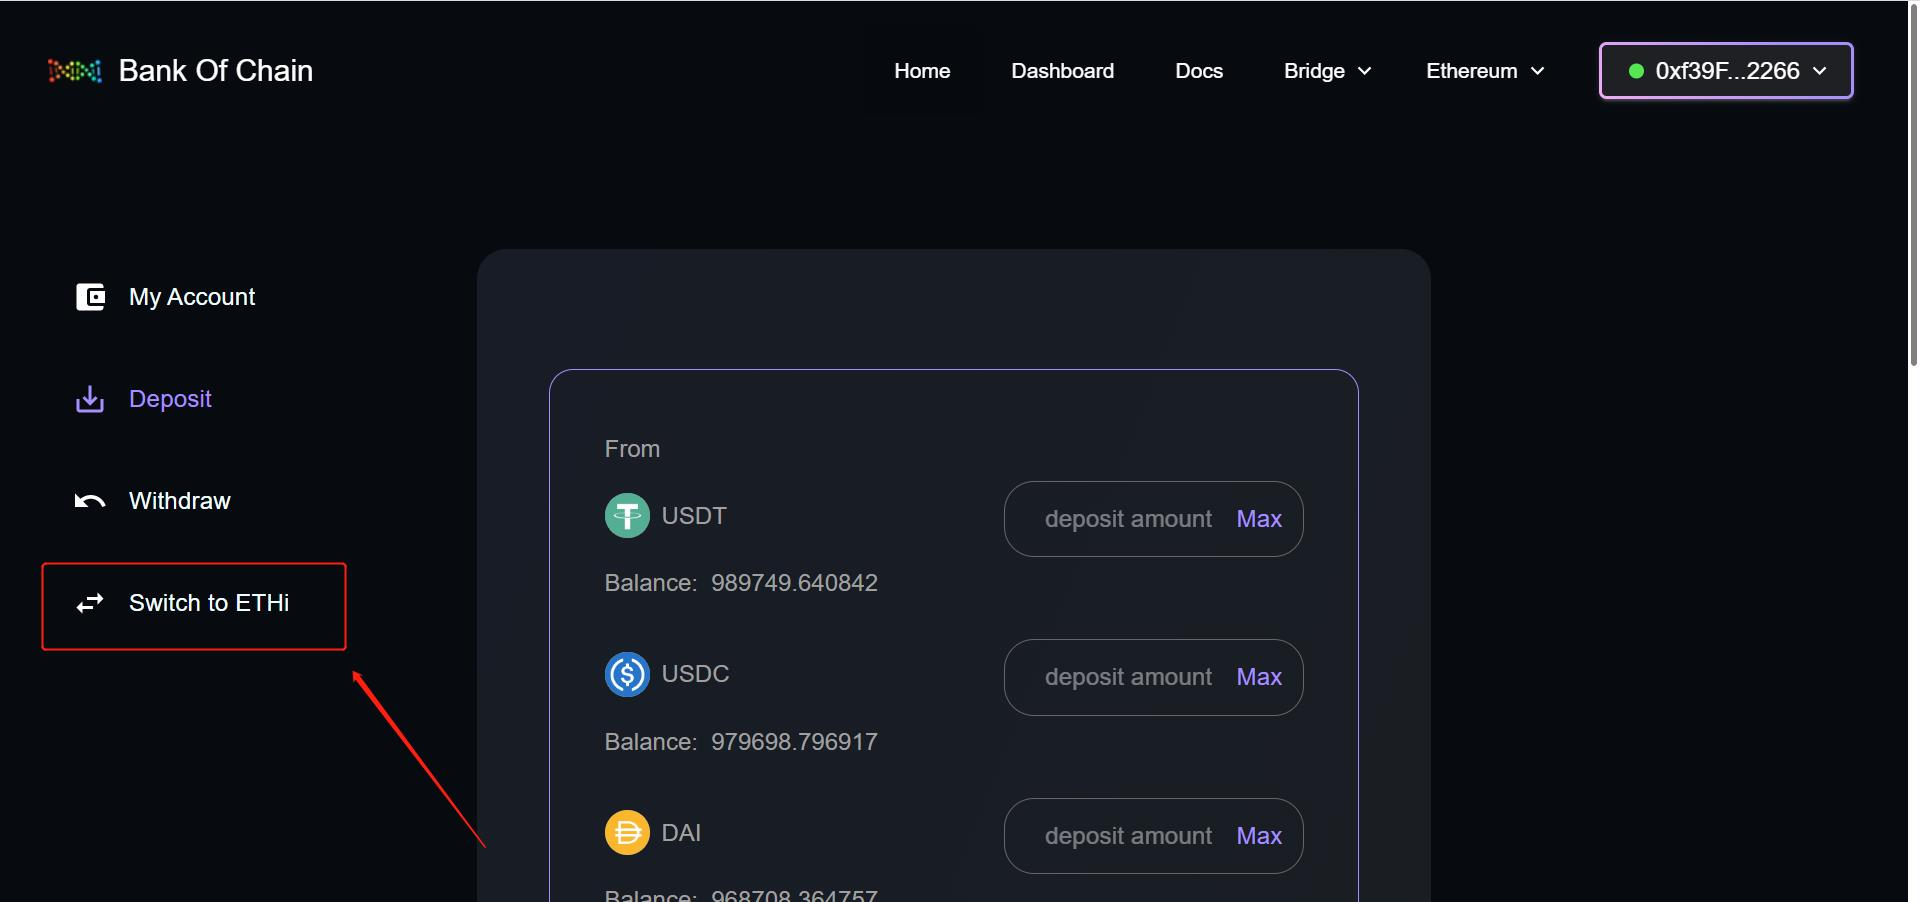
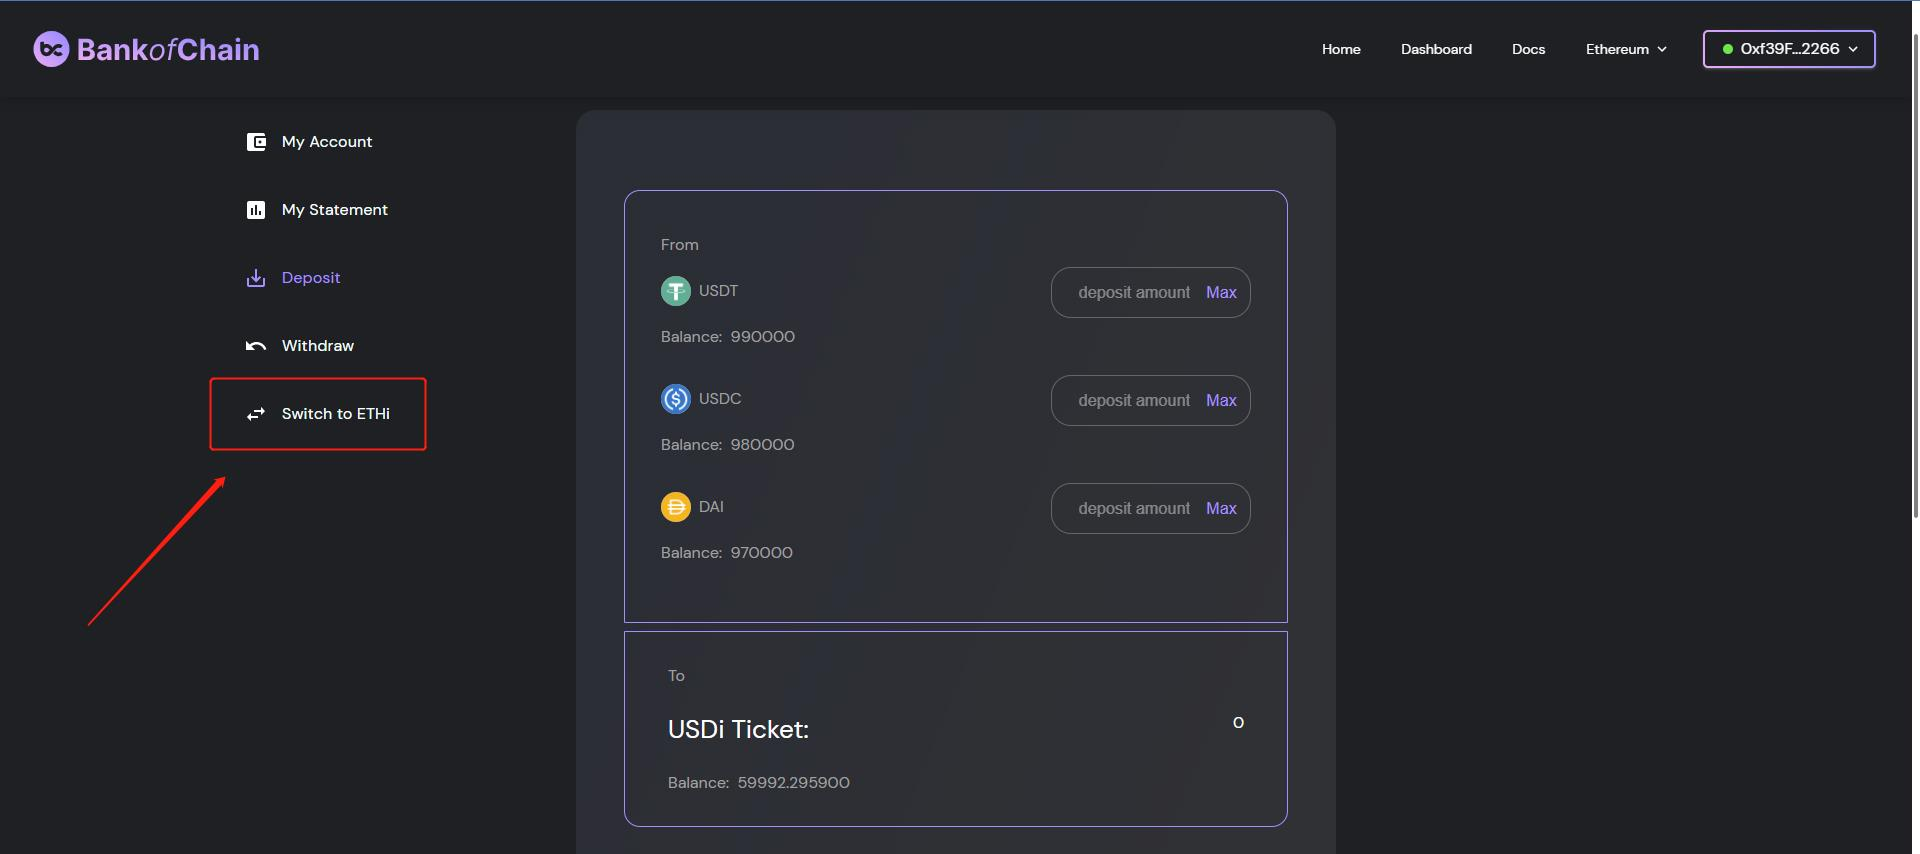
GitBook: [#42] user handbook zh update

diff --git a/boc/user-handbook.md b/boc/user-handbook.md
@@ -1,32 +1,26 @@
 # 如何使用BoC
 
-进入 BoC [首页](https://bankofchain.io/#/)，点击 `LAUNCH APP` 按钮进入[用户投资页](https://v1.bankofchain.io/#/invest)。
+进入 BoC [首页](https://bankofchain.io/#/)，点击 `LAUNCH APP` 按钮进入[用户投资页](https://v1.bankofchain.io/#/invest)。您将跳转到APP的主页。
 
-<figure><img src="../.gitbook/assets/user_handbook_LaunchApp1.png" alt=""><figcaption></figcaption></figure>
+<figure><img src="../.gitbook/assets/user_handbook_LaunchApp1 (1).png" alt=""><figcaption><p>图1：Launch App</p></figcaption></figure>
 
 ## 连接钱包
 
 您可以通过 [MetaMask](https://metamask.io/#/) 和 [WalletConnect](https://walletconnect.com/#/) 与BoC进行交互, 点击 `CONNECT WALLET`按钮连接您的[钱包](../more/appendix.md#wallet)。
 
-<figure><img src="../.gitbook/assets/user_handbook_ConnectWallet.png" alt=""><figcaption></figcaption></figure>
+<figure><img src="../.gitbook/assets/user_handbook_ConnectWallet (1).png" alt=""><figcaption><p>图2：连接钱包</p></figcaption></figure>
 
 成功连接钱包后，`CONNECT WALLET` 按钮上将出现您的相关钱包地址。
 
-<figure><img src="../.gitbook/assets/user_handbook_wallet_connected.png" alt=""><figcaption></figcaption></figure>
+<figure><img src="../.gitbook/assets/user_handbook_wallet_connected.png" alt=""><figcaption><p>图3：钱包连接成功后，将显示钱包地址。</p></figcaption></figure>
 
 ## 参数设置
 
-### 跨链桥
-
-BoC提供 [Polygon](https://wallet.polygon.technology/#/) 和 [Binance](https://www.binance.com/#/) 两种[跨链桥](../more/appendix.md#bridge)，方便您实现加密资产跨链。点击页面左上方的 `Bridge`即可选择跨链桥。
-
-<figure><img src="../.gitbook/assets/user_handbook_bridge.png" alt=""><figcaption></figcaption></figure>
-
 ### 切换链
 
-BoC 提供 Ethereum、BNB Chain 和 Polygon 三条链，进入页面左上方的 `NETWORKS`中即可切换。
+BoC 目前只部署了以太链，Polygon链的部署正在开发中。开发完毕后，BoC将提供 Ethereum、 和 Polygon 两条链，进入页面左上方的 `NETWORKS`中即可切换。
 
-<figure><img src="../.gitbook/assets/user_handbook_network.png" alt=""><figcaption></figcaption></figure>
+<figure><img src="../.gitbook/assets/user_handbook_network.png" alt=""><figcaption><p>图4：切换链</p></figcaption></figure>
 
 ## 存币 & 取币
 
@@ -34,33 +28,31 @@ BoC 提供 Ethereum、BNB Chain 和 Polygon 三条链，进入页面左上方的
 
 目前BoC支持用户将手中的三大稳定币（USDT、USDC、DAI）以任意组合、任意数量的形式存入。成功连接钱包并且设置好参数之后，选择期望存入的池，下图以 USDi Vault 为例，在相应的币下输入您期望的存币金额，或选择 `Max`，即存入您钱包中的所有此种代币，点击`DEPOSIT`，完成存币。
 
-<figure><img src="../.gitbook/assets/user_handbook_deposit2 (1).png" alt=""><figcaption></figcaption></figure>
+<figure><img src="../.gitbook/assets/user_handbook_deposit (1).png" alt=""><figcaption><p>图5：BoC存币界面</p></figcaption></figure>
 
-接下来将以存入10000 USDT，20000 USDC 以及 30000 DAI 为例，存入步骤将由以下四张图表示：
+接下来将以存入100 USDT，100 USDC 以及 100 DAI 为例，存入步骤将由以下四张图表示：
 
-**图一：**在相应的币下输入相对应的存币金额。
+<figure><img src="../.gitbook/assets/user_handbook_deposit_exp (1).png" alt=""><figcaption><p>图6：在相应的币下输入相对应的存币金额。</p></figcaption></figure>
 
-<figure><img src="../.gitbook/assets/user_handbook_deposit_exp.png" alt=""><figcaption><p>图一</p></figcaption></figure>
+点击 `DEPOSIT` 按钮后，即将进入下一个步骤，获取 USDi 券并再次确认存入金额。
 
-**图二：**点击 `DEPOSIT` 按钮后，即将进入下一个步骤，获取 USDi 券并再次确认存入金额。
+<figure><img src="../.gitbook/assets/user_handbook_est_USDi_ticket (1).png" alt=""><figcaption><p>图7：确认存币金额窗口</p></figcaption></figure>
 
-<figure><img src="../.gitbook/assets/user_handbook_est_USDi_ticket.png" alt=""><figcaption><p>图二</p></figcaption></figure>
+点击 `CONTINUE` 继续后，页面将跳转到 METAMASK 窗口，该窗口将显示批准金额以及合同地址等详情以供确认。
 
-**图三：**点击 `CONTINUE` 继续后，页面将跳转到 METAMASK 窗口，该窗口将显示批准金额以及合同地址等详情以供确认。
+<figure><img src="../.gitbook/assets/user_handbook_deposit_confirmation.png" alt=""><figcaption><p>图8：METAMASK窗口显示转账以及燃料费以供确认。</p></figcaption></figure>
 
-<figure><img src="../.gitbook/assets/user_handbook_deposit_confirmation.png" alt=""><figcaption><p>图三</p></figcaption></figure>
+确认之后，页面将重新跳转到存币主页。成功存币之后，该页将显示各币相对应的余额。BoC 协议将根据资金分配规则把资金投入到第三方协议。BoC 将资金优先分配到高收益的资金池，并定期进行收益评估以对资金进行优化配置。您所兑换的 USDi 券总数将会被显示在屏幕上直到资金分配完成。扣除资金首次分配费用后，BoC 将 USDi 券兑换成 USDi 并将其发行。您的账户上才会出现当前所持有的 USDi 余额。
 
-**图四：**确认之后，页面将重新跳转到存币主页。成功存币之后，该页将显示各币相对应的余额。BoC 协议将根据资金分配规则把资金投入到第三方协议。BoC 将资金优先分配到高收益的资金池，并定期进行收益评估以对资金进行优化配置。您所兑换的 USDi 券总数将会被显示在屏幕上直到资金分配完成。扣除资金首次分配费用后，BoC 将 USDi 券兑换成 USDi 并将其发行。您的账户上才会出现当前所持有的 USDi 余额。
-
-<figure><img src="../.gitbook/assets/user_handbook_deposit_completed.png" alt=""><figcaption><p>图四</p></figcaption></figure>
+<figure><img src="../.gitbook/assets/user_handbook_deposit_completed (1).png" alt=""><figcaption><p>图9：存币成功后（资金调配中）所显示的USDi Ticket余额。</p></figcaption></figure>
 
 用户也可以点击 `Switch to ETHi` 按钮跳转到 ETHi Vault 页面中存入 ETH。
 
-<figure><img src="../.gitbook/assets/user_handbook_switchtoETHi.png" alt=""><figcaption></figcaption></figure>
+<figure><img src="../.gitbook/assets/user_handbook_switchtoETHi.png" alt=""><figcaption><p>图10：Switch to ETHi 跳转界面</p></figcaption></figure>
 
 下图为 ETHi 存币页面的截图：
 
-<figure><img src="../.gitbook/assets/user_handbook_ETHi.png" alt=""><figcaption></figcaption></figure>
+<figure><img src="../.gitbook/assets/user_handbook_ETHi.png" alt=""><figcaption><p>图11：ETHi存币界面</p></figcaption></figure>
 
 在 ETHi Vault 中的 `Deposit` 页面，您只能输入 ETH 的存币金额并点击`DEPOSIT`。ETHi Vault 和 USDi Vault 最大的区别在于，前者将抽取一部分的燃料费，如上图中的 Estimated Gas Fee。
 
@@ -68,56 +60,65 @@ BoC 提供 Ethereum、BNB Chain 和 Polygon 三条链，进入页面左上方的
 
 成功存币后，您可以随时将USDi换回三大稳定币（USDT、USDC、DAI），也可以指定换回某一种币。取币前，您可以从 Balance 获知您现有的USDi数额。点击 `WITHDRAW` 切换到取币页面，选择池和期望换回的币种，输入需要的取币金额，或选择 `Max` 全部取出。在把所有的参数选择好后，如下图点击 `WITHDRAW` ，完成取币。
 
-<figure><img src="../.gitbook/assets/user_handbook_withdraw_exp.png" alt=""><figcaption></figcaption></figure>
+在以下的示范中，我们将选择`MAX`一键提取所有USDi，将其兑换成`Mix`，并点击`WITHDRAW`。
 
-接下来将以提取 40000 USDi 换回 USDC 为例，取币步骤将由以下三张图表示：
+<figure><img src="../.gitbook/assets/user_handbook_withdraw_exp (1).png" alt=""><figcaption><p>图12：从BoC vault提取所有已存入USDi。</p></figcaption></figure>
 
-**图一：**把想提取的 USDi 数额设到 40000，并选择 USDC 为提取币，随后点击 `WITHDRAW`提取。
+页面将跳转到 METAMASK 窗口，以供您确认燃料费等详情。
 
-<figure><img src="../.gitbook/assets/user_handbook_withdraw_process.png" alt=""><figcaption><p>图一</p></figcaption></figure>
+<figure><img src="../.gitbook/assets/user_handbook_withdraw_confirmation (1).png" alt=""><figcaption><p>图14：跳转METAMASK窗口显示燃料费以供确认。</p></figcaption></figure>
 
-**图二：**页面将跳转到 METAMASK 窗口，以让您确认燃料费等详情。
+点击确认之后，页面将重新跳转到取币的主页，您可以从 USDi 余额确认取币是否成功。在此示范中我们选择了一键提取所有，故此USDi余额为0：
 
-<figure><img src="../.gitbook/assets/user_handbook_withdraw_confirmation.png" alt=""><figcaption><p>图二</p></figcaption></figure>
+<figure><img src="../.gitbook/assets/user_handbook_withdraw_complete.png" alt=""><figcaption><p>图15：屏幕上所显示USDi余额。</p></figcaption></figure>
 
-**图三：**点击确认之后，页面将重新跳转到取币的主页，您可以从 USDi 余额确认取币是否成功。
+取币完成后，将自动弹出窗口以便用户进行币种兑换（swap tokens）：
 
-<figure><img src="../.gitbook/assets/user_handbook_withdraw_complete.png" alt=""><figcaption><p>图三</p></figcaption></figure>
+<figure><img src="../.gitbook/assets/user_handbook_swaptokens.png" alt=""><figcaption><p>图16：弹出兑换币种窗口。</p></figcaption></figure>
+
+用户需将slippage tolerance填入，即为用户所能承受的滑点损失范围。
+
+点击`swap` 跳转到METAMASK窗口，该窗口将显示兑换币种所需费用以供用户确认并允许执行。
+
+<figure><img src="../.gitbook/assets/user_handbook_swaptokens_confirmation.png" alt=""><figcaption><p>图17：跳转到METAMASK窗口确认兑换费用</p></figcaption></figure>
 
 用户也可以点击 `Switch to ETHi` 按钮跳转到 ETHi Vault 页面中取出 ETH。
 
-<figure><img src="../.gitbook/assets/user_handbook_switchtoETHi_w.png" alt=""><figcaption></figcaption></figure>
+<figure><img src="../.gitbook/assets/user_handbook_switchtoETHi_w.png" alt=""><figcaption><p>图18：Switch to ETHi跳转界面</p></figcaption></figure>
 
 下图为 ETHi 取币界面的截图：
 
-<figure><img src="../.gitbook/assets/user_handbook_ETHi_w.png" alt=""><figcaption></figcaption></figure>
+<figure><img src="../.gitbook/assets/user_handbook_ETHi_w (1).png" alt=""><figcaption><p>图19：ETHi取币界面</p></figcaption></figure>
 
 #### 取币的高级参数设置
 
-<figure><img src="../.gitbook/assets/user_handbook_advanced_para.png" alt=""><figcaption></figcaption></figure>
-
 取币的高级参数为：
 
+<figure><img src="../.gitbook/assets/user_handbook_advanced_para.png" alt=""><figcaption><p>图20：取币高级参数（最大损失）</p></figcaption></figure>
+
 1. **Max Loss 取币最大损失**：当您输入取币数额后，会显示当前净值下的预估总资产，但这并不是您最终能拿到手的资金，在取款过程可能会发生损失，比如滑点损失。例如：此时您的总资产预估为 $1000，选择 Max Loss = 0.3%，则您拿到手的资金不会少于 $997。
-2. **Slippage 滑点**：指买方和卖方预期之间的价格差异。滑点可能导致资产的最终出售价格高于或低于请求的交易金额。您需要选择或输入所能接受的滑点。
 
 ## 将 USDi 添加至钱包
 
 在您成功存币后，如果您的钱包中没有显示 USDi，您需要手动将 USDi 添加至钱包，以方便看到当前 USDi 余额。如下图所示，点击 `+`按钮，再点击 `Add Token`, 添加完成。
 
-<figure><img src="../.gitbook/assets/user_handbook_addtoken_manual.png" alt=""><figcaption></figcaption></figure>
+<figure><img src="../.gitbook/assets/user_handbook_addtoken_manual.png" alt=""><figcaption><p>图21：手动添加USDi tokens</p></figcaption></figure>
 
-点击此处观看 [视频教程](https://youtu.be/53kB-HakZCk) 。
+点击此处观看视频教程
 
-ETHi 可以用相同的方法被加至钱包
+{% embed url="https://www.youtube.com/watch?v=53kB-HakZCk" %}
 
-<figure><img src="../.gitbook/assets/user_handbook_add_token_manual_ETHi.png" alt=""><figcaption></figcaption></figure>
+ETHi 可以用相同的方法被加至钱包。
+
+<figure><img src="../.gitbook/assets/user_handbook_add_token_manual_ETHi.png" alt=""><figcaption><p>图22：手动添加ETHi tokens</p></figcaption></figure>
 
 ## Dashboard
 
-用户可以从[Dashboard](https://dashboard-v1.bankofchain.io/#/)中获得关于其资产和与资产交互的协议的所有相关信息。
+用户可以从Dashboard中获得关于其资产和与资产交互的协议的所有相关信息。
 
-<figure><img src="../.gitbook/assets/user_handbook_dashboard (1).png" alt=""><figcaption></figcaption></figure>
+{% embed url="https://dashboard.bankofchain.io/#/?chain=1&vault=usdi" %}
+
+<figure><img src="../.gitbook/assets/user_handbook_dashboard.png" alt=""><figcaption><p>图23：BoC Dashboard</p></figcaption></figure>
 
 各个数据说明如下：
 
@@ -135,17 +136,15 @@ ETHi 可以用相同的方法被加至钱包
 
 BOC subgraph：
 
-Ethereum：[https://api.thegraph.com/subgraphs/name/bankofchain/boc-subgraph-eth](https://api.thegraph.com/subgraphs/name/bankofchain/boc-subgraph-eth)
-
-BNB Chain：[https://api.thegraph.com/subgraphs/name/bankofchain/boc-subgraph-bsc](https://api.thegraph.com/subgraphs/name/bankofchain/boc-subgraph-bsc)
-
-Polygon：[https://api.thegraph.com/subgraphs/name/bankofchain/boc-subgraph-matic](https://api.thegraph.com/subgraphs/name/bankofchain/boc-subgraph-matic)
+* Ethereum：[https://api.thegraph.com/subgraphs/name/bankofchain/boc-subgraph-eth](https://api.thegraph.com/subgraphs/name/bankofchain/boc-subgraph-eth)
+* BNB Chain：[https://api.thegraph.com/subgraphs/name/bankofchain/boc-subgraph-bsc](https://api.thegraph.com/subgraphs/name/bankofchain/boc-subgraph-bsc)
+* Polygon：[https://api.thegraph.com/subgraphs/name/bankofchain/boc-subgraph-matic](https://api.thegraph.com/subgraphs/name/bankofchain/boc-subgraph-matic)
 
 ## 策略详情页
 
-以UniswapV3UsdcUsdt500Strategy为例，提供了策略的详情，进入[策略详情页](https://dashboard.bankofchain.io/#/strategy?id=0x4717eaa5da97f11bda3a3f021a20fd8cb72eab64\&chain=137)如图：
+以ConvexIBUsdtCHfStrategy为例，提供了策略的详情，进入策略详情页如图：
 
-<figure><img src="../.gitbook/assets/user_handbook_strategy.png" alt=""><figcaption></figcaption></figure>
+<figure><img src="../.gitbook/assets/user_handbook_strategy.png" alt=""><figcaption><p>图24: BoC 策略详情页</p></figcaption></figure>
 
 各个数据说明如下：
 
@@ -168,19 +167,17 @@ Polygon：[https://api.thegraph.com/subgraphs/name/bankofchain/boc-subgraph-mati
 
 ## 个人投资分析页
 
-进入[个人投资分析页](https://dashboard.bankofchain.io/#/mine?chain=1)可以看到个人投资收益。
+在BoC App主页中的My Statement即可游览个人投资收益以及其他信息：
 
 <figure><img src="../.gitbook/assets/user_handbook_personal_dashboard.png" alt=""><figcaption></figcaption></figure>
 
 各个数据说明如下：
 
-1. 个人 USDi 余额
-2. 策略里未收割但已生成的收益，一旦收割完成后将转换成已实现收益（以 USDi 计算）。
-3. 收割完成后，BoC机枪池中用户可提取的收益（以 USDi 计算）。
-4. 近7日 APY。
-5. 近30日 APY。
-6. 每日 USDi 数额。
-7. 月收益。
+1. Harvest完成后，BoC机枪池中用户可提取的收益（以 USDi 计算）。
+2. 近7日 APY。
+3. 近30日 APY。
+4. USDi变化曲线图，展示每日USDi数额。
+5. 每日/周/月收益。
 
 ## 从BoC内测版UI中取币
 

diff --git a/xie-yi-ji-zhi/protocol-algorithm-design/zhu-zao-mint-xiao-hui-burn-gui-ze.md b/xie-yi-ji-zhi/protocol-algorithm-design/zhu-zao-mint-xiao-hui-burn-gui-ze.md
@@ -22,7 +22,7 @@
 
 <figure><img src="../../.gitbook/assets/Mint_USDi_zh.png" alt=""><figcaption><p>图2：BoC 在把资金调配到第三方策略后销毁USDi Ticket，铸造USDi 并发行给用户</p></figcaption></figure>
 
-接着根据dohardwork策略算法,将用户存入的稳定币进行组合投资到相关策略里，根据本次投资后按策略的估值进行铸造出等价的USDi作为用户最终持有的投资凭证，并销毁其持有的USDi Ticket。
+接着根据doHardWork策略算法,将用户存入的稳定币进行组合投资到相关策略里，根据本次投资后按策略的估值进行铸造出等价的USDi作为用户最终持有的投资凭证，并销毁其持有的USDi Ticket。
 
 假设用户持有的300 USDi，对应投入的各100个USDT, DAI和USDC，经过doHardWork策略算法，将其投入到 Aura3PoolStrategy策略协议，其最终估值为299 USD(损失一般是由于策略投资会进行一定比例的币种兑换或是有的协议会收取入场费造成的)。那么用户最终能得到299 USDi，并将销毁其持有 300 USDi Ticket。
 
